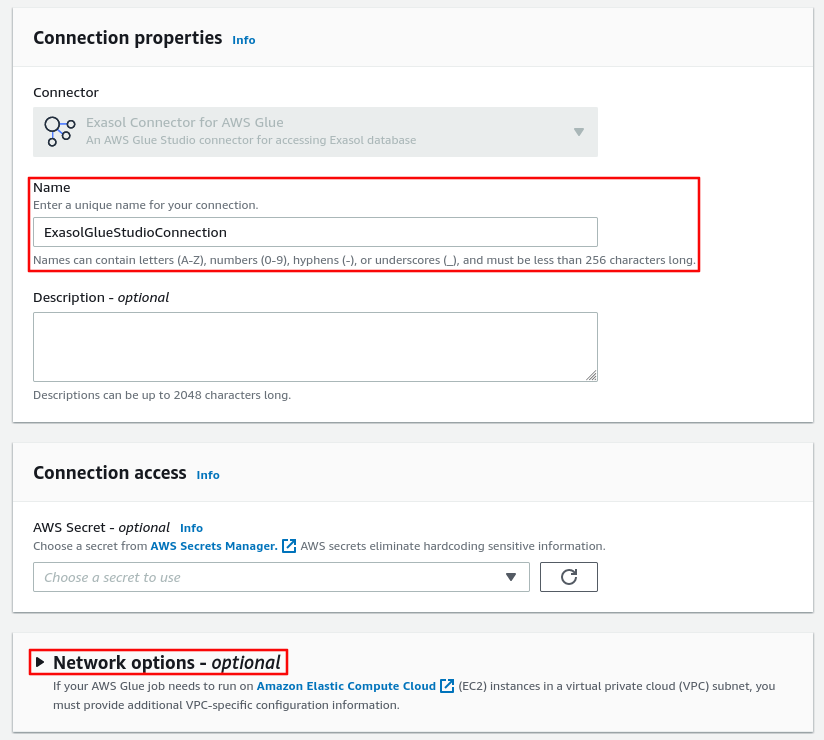
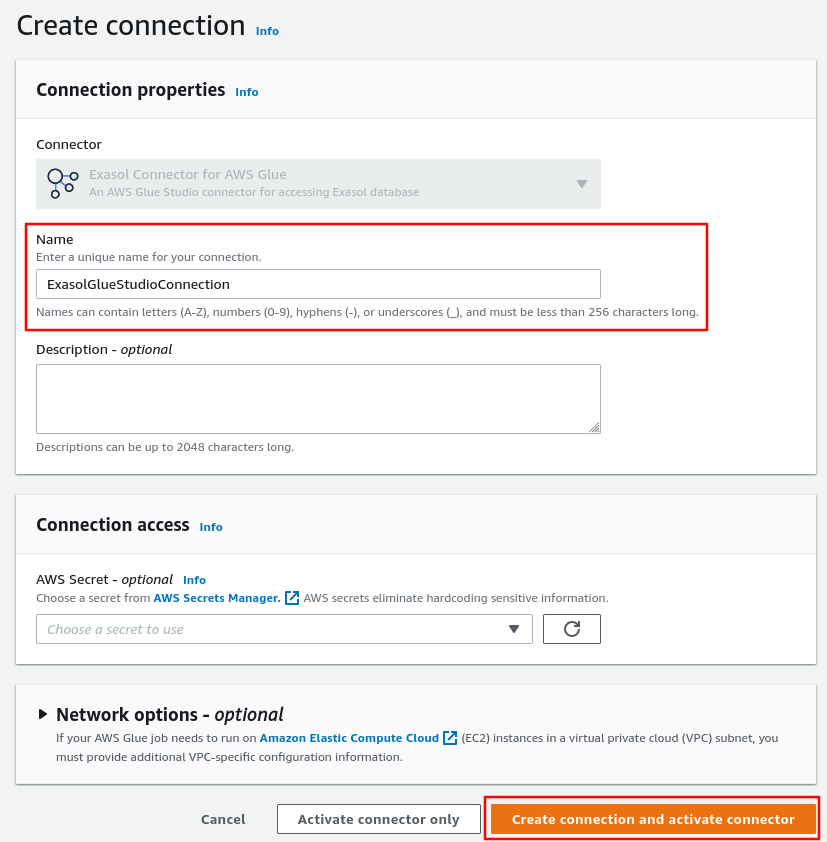
Updated user guide

diff --git a/doc/user_guide/user_guide.md b/doc/user_guide/user_guide.md
@@ -19,26 +19,15 @@ We are going to create an IAM Policy Role with required permissions that will ac
 - For "Use cases for other AWS services" search for "Glue" and select "Glue"
 - Click "Next" to add permissions
 - Type "S3" to Filter Policies and press enter, and then select `AmazonS3FullAccess` policy
-- Similarly, type "Glue" and press enter, and then select `AWSGlueServiceRole` policy
+- Type "Glue" and press enter, and then select `AWSGlueServiceRole` policy
+- Similarly, search for and add `AmazonEC2ContainerRegistryReadOnly` policy
 - These are the default policy roles, however, please change them accordingly
 - Then click next, and provide a descriptive Role name and Role description
 - Add tags, review and click "Create role" button
 
 ![Exasol AWS Glue Studio IAM Role](img/iam_role.png)
 
-### Adding S3 Endpoint to VPC
-
-AWS Glue Studio requires S3 endpoint to access the buckets. Go to ["Amazon VPC"](https://console.aws.amazon.com/vpc) &rarr; from navigation pane choose "Endpoints" &rarr; click "Create Endpoint" on the top right corner. Then follow these steps:
-
-- Ensure that "AWS services" is selected
-- For Service Name, type "S3" and press send
-- Select "S3 service gateway" from provided options
-- Select VPC Id that, we will use it later also in connector setup
-- On the routing tables section, choose the subnet that we will use later for connector setup
-- For this guide we are going to allow "Full Access" to the S3 endpoint, please adapt it accordingly
-- Add tags and click on "Create endpoint"
-
-![Exasol AWS Glue Studio S3 Endpoint](img/s3_endpoint.png)
+Please read about the AWS Glue Studio [documentation on minimum required permissions](https://docs.aws.amazon.com/glue/latest/ug/setting-up.html#getting-started-min-privs-connectors).
 
 ## Setting up the Connector
 
@@ -54,11 +43,7 @@ It will bring you into AWS Glue Studio service. Please add a unique connection n
 
 ![Exasol AWS Glue Studio Connection Name](img/glue_connection.png)
 
-Additionally, please setup the "Network options" accordingly. Choose a VPC, subnet and security group so that Exasol database is reachable from the Glue Studio service.
-
-![Exasol AWS Glue Studio Network Options](img/network_options.png)
-
-Finally click "Create Connection and Activate Connector" button.
+Then click "Create Connection and Activate Connector" button.
 
 #### Confirm That Connector and Connection are Created
 
